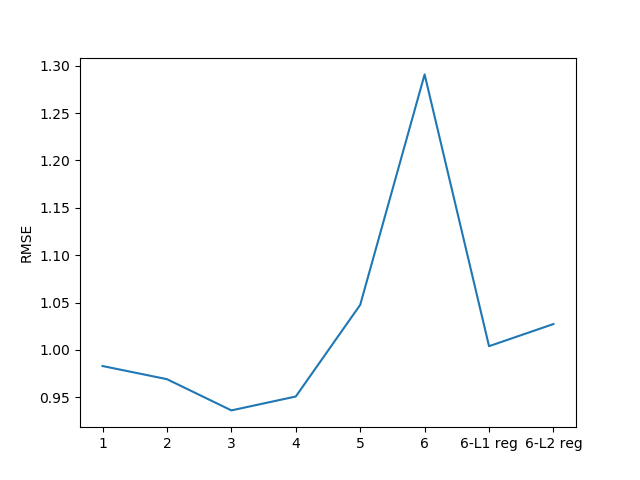
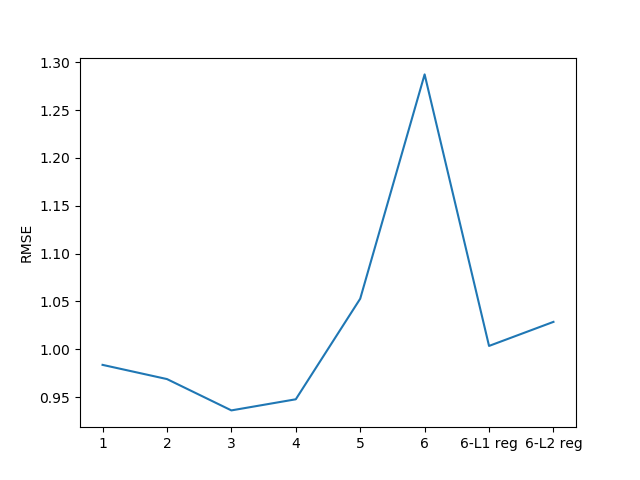
.

diff --git a/polynomial_regression.py b/polynomial_regression.py
@@ -14,6 +14,12 @@ def predicted(X,theta):
 def cost(X,y,theta):
      return ((1/2)*np.sum(np.square((predicted(X,theta))-y)))
 
+def cost_L1(X,y,theta,lambda_):
+    return  (((1/2)*np.sum(np.square((predicted(X,theta))-y)))+(lambda_*(np.sum(np.absolute(theta)))))
+
+def cost_L2(X,y,theta,lambda_):
+    return  (((1/2)*np.sum(np.square((predicted(X,theta))-y)))+(lambda_*(np.sum(np.square(theta)))))
+
 def r_squared(X,y,final_weights):
 
     return ((np.sum(np.square(predicted(X,final_weights)-y.mean())))/(np.sum(np.square(y-y.mean()))))
@@ -40,7 +46,7 @@ def gradient_descent_with_L2_regularisation(X,y,theta,learning_rate,iterations,l
     for i in range(iterations):
         
         theta = theta - (learning_rate) * ((1/len(X))*(np.sum(X * ((predicted(X,theta)) - y), axis=0)) +  lambda_*theta)
-        cost_history[i] = cost(X, y, theta)
+        cost_history[i] = cost_L1(X, y, theta,lambda_)
         
     return theta,cost_history
 
@@ -60,7 +66,7 @@ def gradient_descent_with_L1_regularisation(X,y,theta,learning_rate,iterations,l
 
         theta = theta - (learning_rate) * ((1/len(X))*(np.sum(X * ((predicted(X,theta)) - y), axis=0)) +  lambda_*temp)
         
-        cost_history[i] = cost(X, y, theta)
+        cost_history[i] = cost_L1(X, y, theta,lambda_)
         
         
     return theta,cost_history
